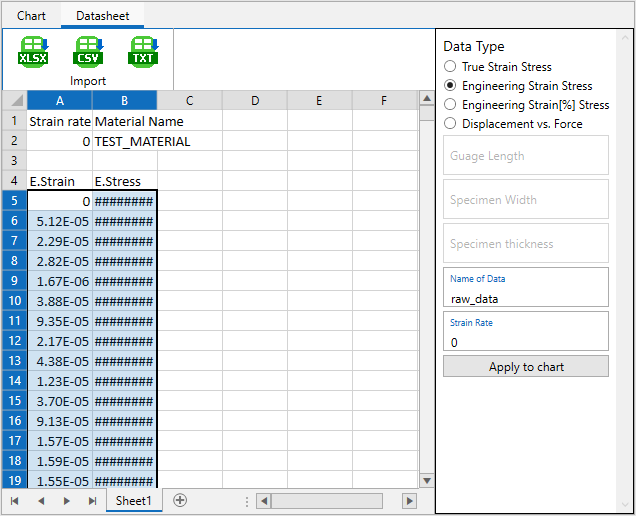
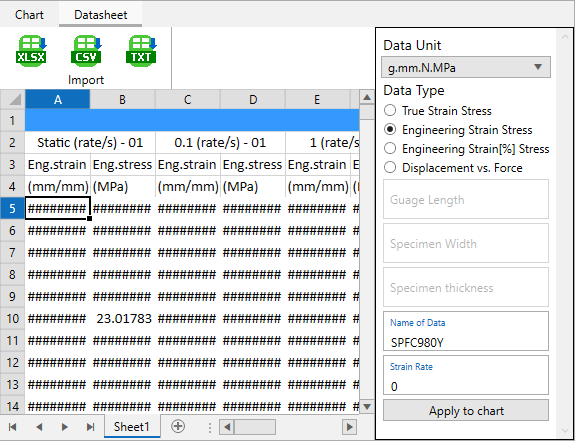
none

diff --git a/docs/source/appendix.md b/docs/source/appendix.md
@@ -1,0 +1,14 @@
+# Appendix
+
+## 1. LS-Dyna 단위계
+LS-Dyna는 기본적으로 데이터의 단위계를 명시하지 않고, 입력되는 데이터의 값으로 계산되기 때문에 LS-Dyna에서 사용가능한 단위 셋(set)에 맞추어 값을 입력해야 합니다. 아래 사진에서 LS-Dyna에서 사용되는 단위계 셋(set)을 확인하세요. 아래 사진의 테이블은 LAMP에서 Help 메뉴의 Units 아이콘을 통해서 확인할 수 있습니다.
+
+![](images/MAT6.png)
+
+## 2. 전역 단위 변환
+ LAMP에서는 기본적으로 입력되는 데이터의 단위는 g.mm.N.MPa 단위이기 때문에 사용자가 실제 사용되는 단위계로 표시하거나 출력할 수 있도록 단위를 변환할 수 있습니다. 단위를 변환하기 위해서는 LAMP 프로그램 제일 하단 우측에 있는 ComboBox에서 변환하고자 하는 단위를 선택함으로써 변환할 수 있습니다. 현재 사용가능한 단위변환 목록은 아래 사진과 같습니다.
+
+![](images/MAT5.png)
+
+ 사용가능한 단위계 목록에서 변환하고자 하는 단위계를 선택하면 UI에 입력된 값들이 선택된 단위계로 변환됩니다. 선택된 단위계는 [Application configuration](comments#application-configuration-target) 요소로써 다시 변경하지 않는 한 설정이 유지 됩니다. 
+

diff --git a/docs/source/gen_material.md b/docs/source/gen_material.md
@@ -44,6 +44,10 @@ Load raw data
  가져오는 strain-stress 데이터의 각 열은 반드시 서로 인접해야 합니다.
  :::
 
+ :::{admonition} Selection of Data Unit
+ 선택한 데이터의 단위계를 선택합니다. 선택한 데이터의 단위는 g.mm.N.MPa 단위로 변환되어 표시됩니다. \
+ LAMP에서 지원하는 [전역 단위계 변환]()을 통해 실제 출력되는 데이터의 단위를 설정할 수 있습니다.
+
  :::{admonition} Selection of Data Type
  Curve fitting은 Engineering strain-stress를 사용하여 수행되기 때문에 선택한 데이터는 Engineering strain-stress로 변환됩니다. 변환을 위해서 선택한 데이터가 어떤 형태의 데이터인지를 알아야 하기에 Data Type을 선택합니다.
 

diff --git a/docs/source/comments.md b/docs/source/comments.md
@@ -1,0 +1,2 @@
+{#application-configuration-target}
+Application configuration : LAMP 프로그램에 전반적으로 적용되는 구성으로 프로그램 실행 시 적용되는 값입니다.

diff --git a/docs/source/index.rst b/docs/source/index.rst
@@ -20,3 +20,5 @@ Welcome to KOSTECH documentation!
    gen_material
    database
    gen_strain_rate_curve
+   comments
+   appendix
